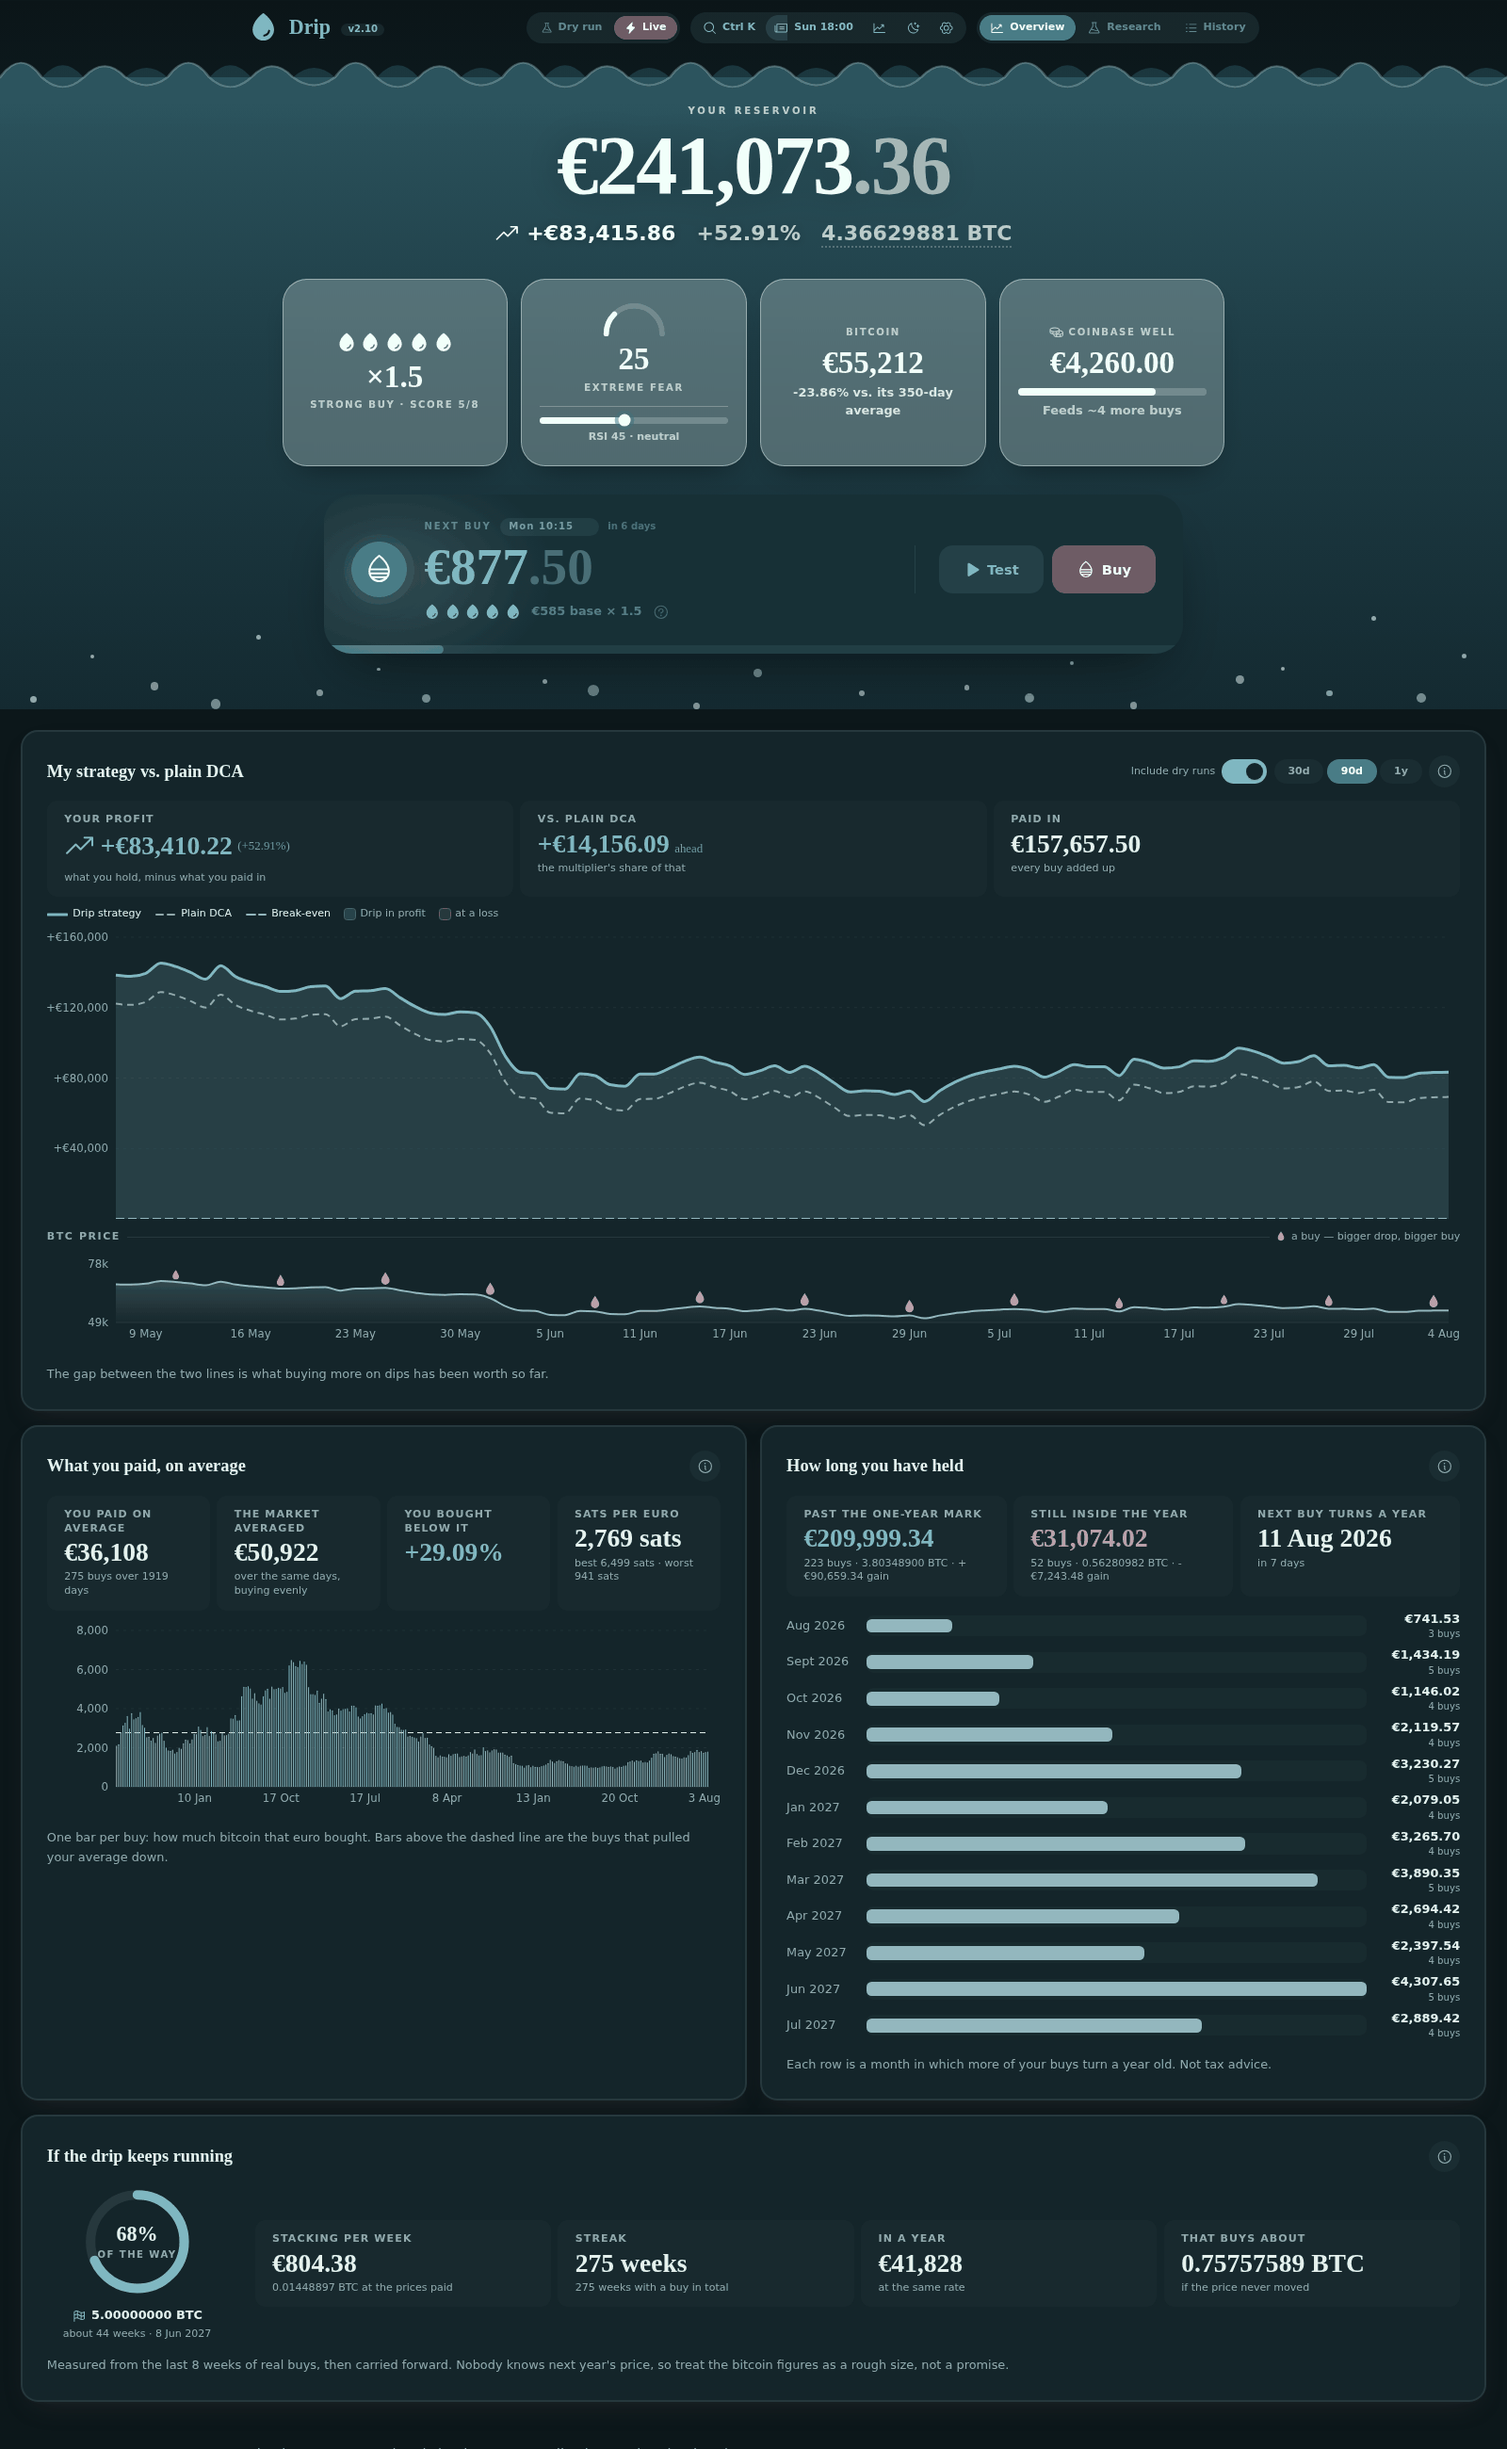
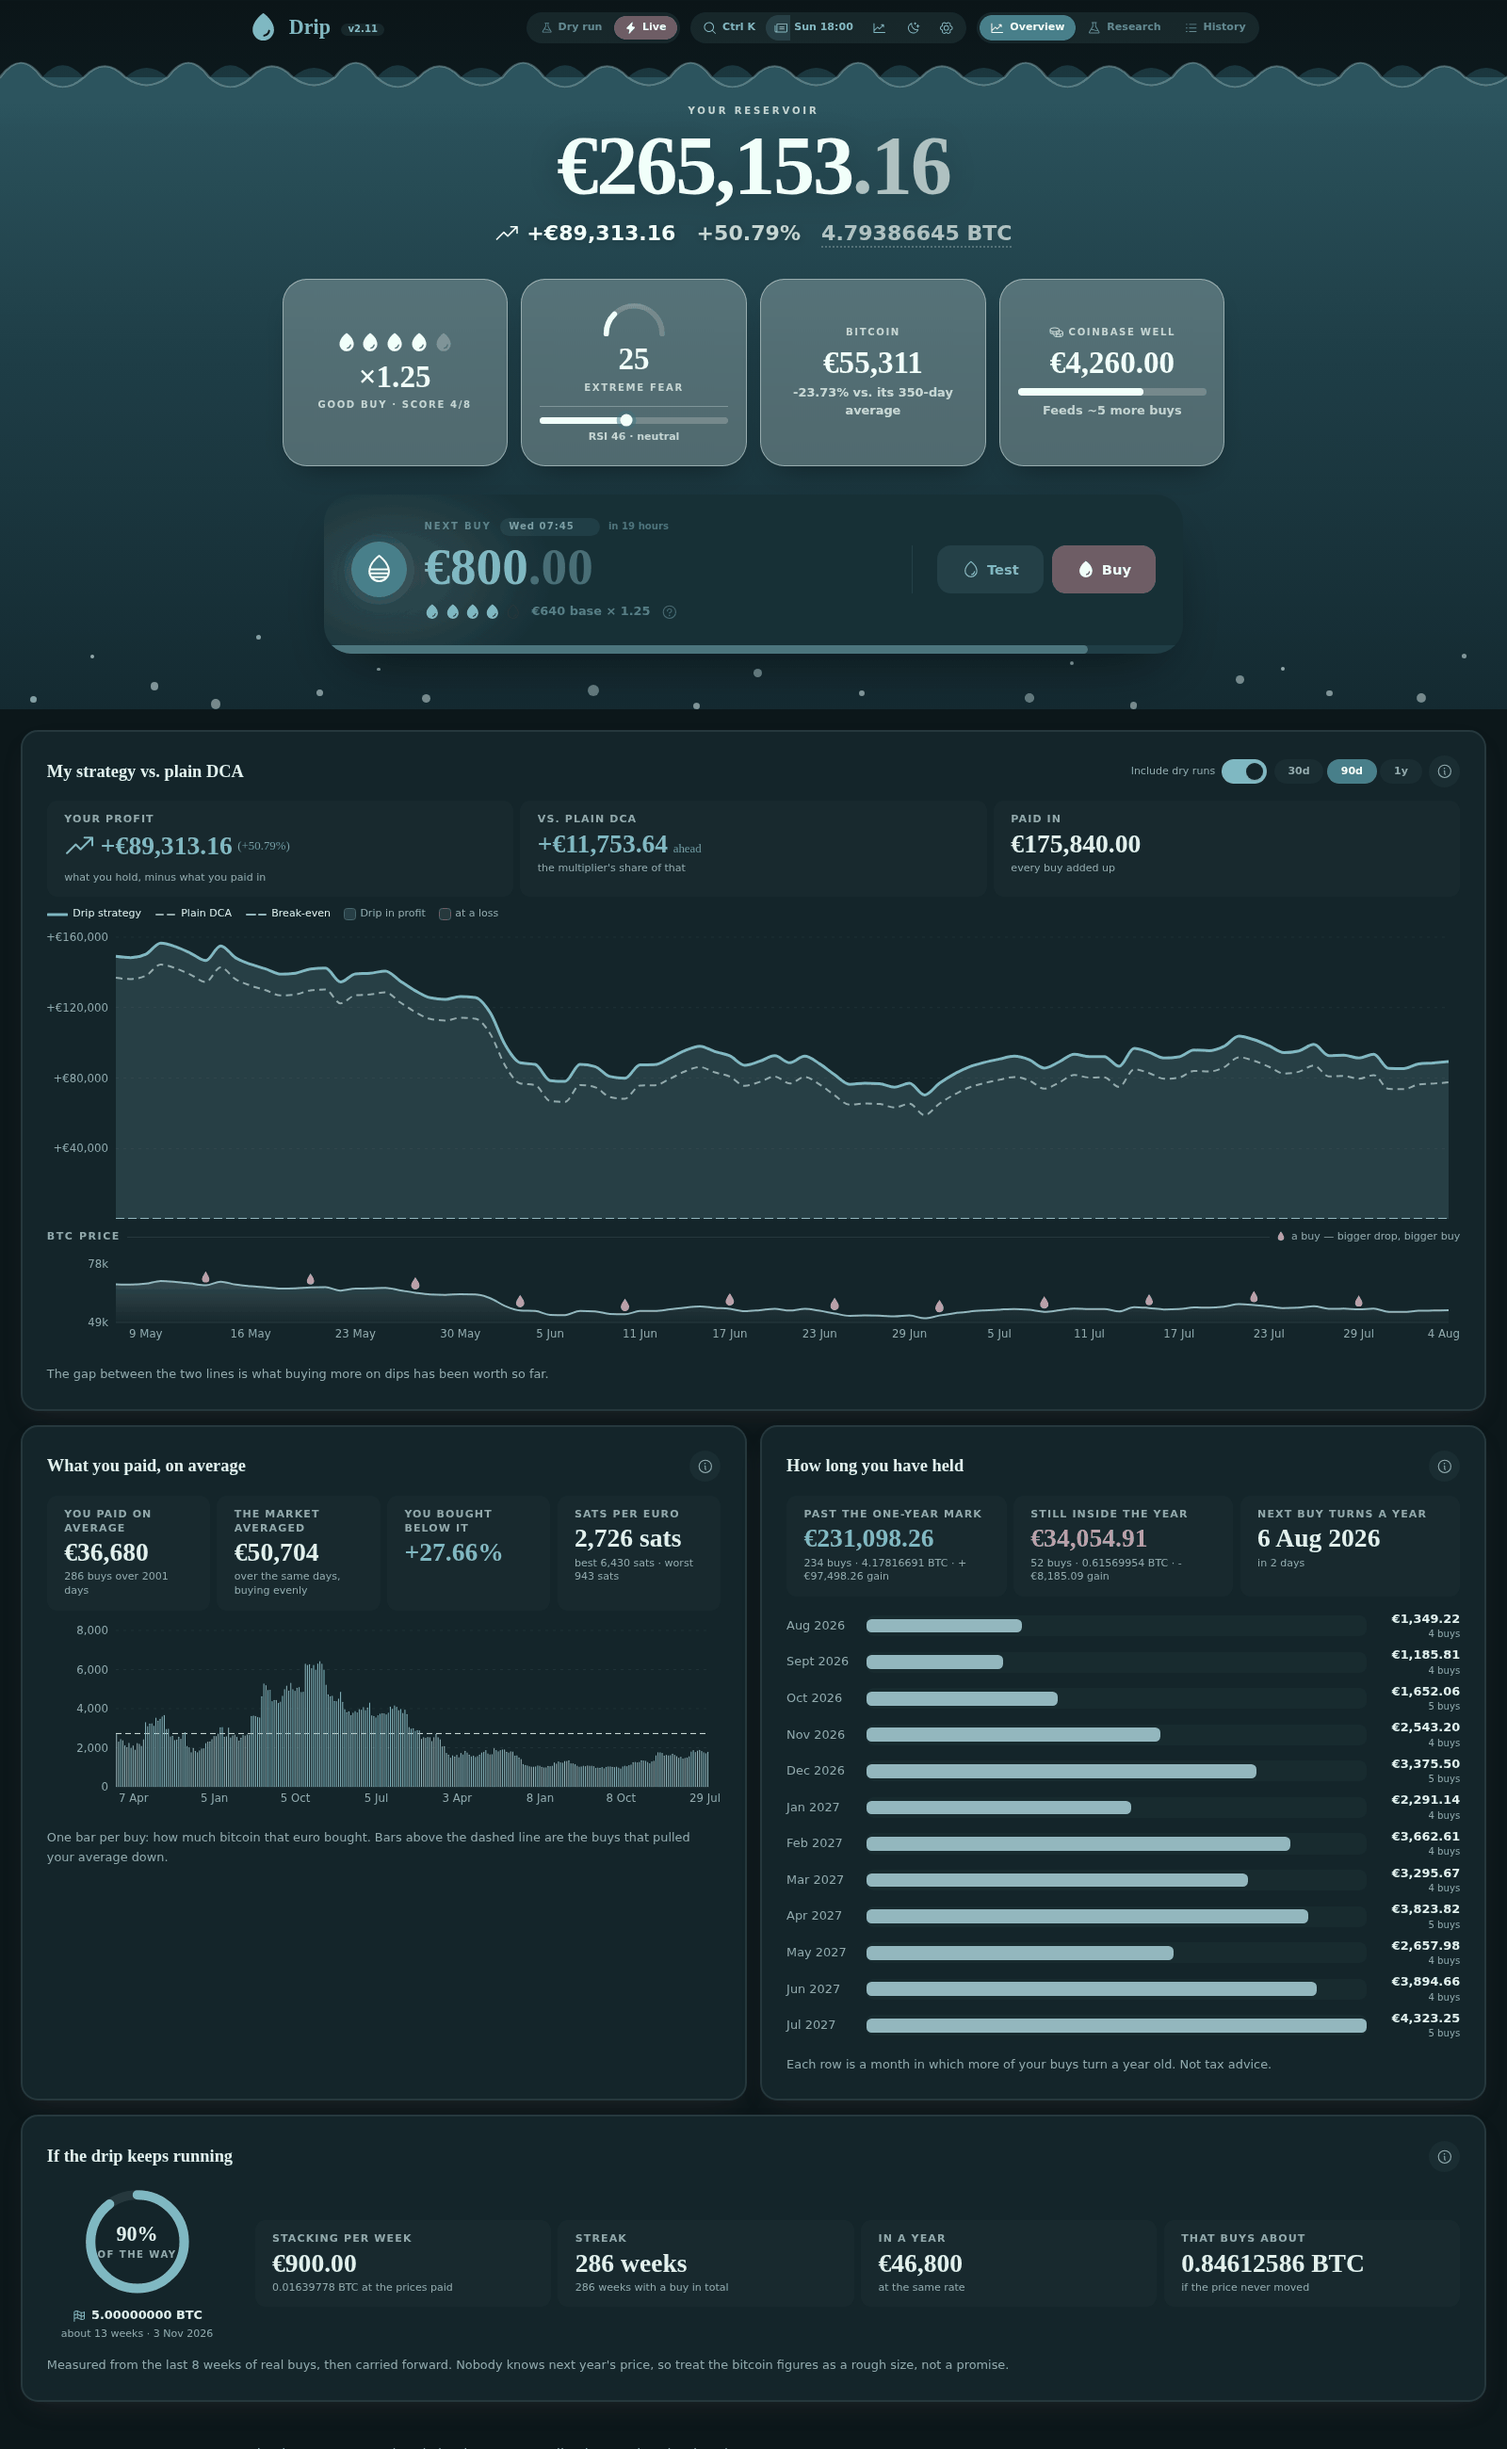
upd: test and buy wear drip's drop

diff --git a/frontend/src/components/header/NextBuyActions.tsx b/frontend/src/components/header/NextBuyActions.tsx
@@ -1,5 +1,7 @@
 import { useEffect, useRef, useState } from "react";
 import CheckIcon from "~icons/ph/check";
+import DropIcon from "~icons/ph/drop";
+import DropFillIcon from "~icons/ph/drop-fill";
 import DropHalfBottomIcon from "~icons/ph/drop-half-bottom";
 import PauseIcon from "~icons/ph/pause";
 import PencilIcon from "~icons/ph/pencil-simple";
@@ -471,7 +473,9 @@ export default function NextBuyActions({
           </div>
         </div>
 
-        {/* Right: everything that can move money */}
+        {/* Right: everything that can move money. Both wear the brand's drop —
+            the same mark as the header's — hollow for a run that spends nothing,
+            filled for one that does. */}
         <div className="flex flex-none items-center gap-2.5 max-md:justify-end md:ml-auto md:border-l md:border-teal/12 md:pl-7">
           <button
             onClick={onTestBuy}
@@ -479,7 +483,7 @@ export default function NextBuyActions({
             title="Run the strategy once without spending anything"
             className={`${ACTION} flex-1 bg-teal/12 text-teal hover:bg-teal/20 focus-visible:outline-teal md:flex-none`}
           >
-            <PlayIcon /> {running ? "Testing…" : "Test"}
+            <DropIcon className="text-lg" /> {running ? "Testing…" : "Test"}
           </button>
           <button
             onClick={onBuy}
@@ -491,7 +495,7 @@ export default function NextBuyActions({
                 : "bg-teal-deep text-cream hover:bg-teal-deep/90 focus-visible:outline-teal"
             }`}
           >
-            <DropHalfBottomIcon className="text-lg" />
+            <DropFillIcon className="text-lg" />
             {buying ? "Buying…" : "Buy"}
           </button>
         </div>

diff --git a/frontend/src/version.ts b/frontend/src/version.ts
@@ -17,6 +17,13 @@ export interface Release {
 
 export const CHANGELOG: Release[] = [
   {
+    version: "2.11",
+    date: "2026-08-04",
+    changes: [
+      "Test and Buy now wear Drip's own drop, the same mark as the one at the top left — hollow for a test run, filled for a buy that spends",
+    ],
+  },
+  {
     version: "2.10",
     date: "2026-08-04",
     changes: [

diff --git a/README.md b/README.md
@@ -16,6 +16,7 @@ Your stack is a tank of water, and it fizzes at the strength of the week's signa
 Underneath, the dashboard researches its own strategy, reports what you paid against
 the market, and carries the rate you stack at forward to the next round number of sats.
 Setting the drip happens on the next-buy card: click the amount, or the day and time.
+Beside them Test and Buy wear Drip's own drop - hollow for a run that spends nothing.
 Everything else lives in three groups in the bar at the top - mode, tools, sections -
 and `Ctrl+K` reaches all of it, keys included, so the Pi needs no shell after the first
 install. Once a week the whole thing arrives on Discord.
@@ -39,7 +40,7 @@ Discord webhook into **Setup** there. To update: `git pull && docker compose up 
 
 `http://<pi-address>:8080/#tank` is the whole thing on one screen, sized to read from
 across the room. Point a spare monitor at it and leave it - it refreshes itself and
-nothing on it can spend money. `Ctrl+K` gets there, Esc comes back.
+cannot spend money. `Ctrl+K` gets there, Esc comes back.
 
 The API has **no authentication** - keep it inside your home network and do not
 forward the port to the internet.
@@ -66,8 +67,8 @@ Drip reports itself to Discord: what you stacked, what the price did, how your s
 stands against plain DCA and against the market's own average, and what the signal
 says now.
 
-Twelve sections, each one switchable. The preview beside them is built by the same code
-that builds the real message, so it is exactly what will arrive.
+Twelve sections, each switchable. The preview is built by the code that builds the real
+message, so it is exactly what arrives.
 
 ![The weekly report editor](docs/screenshot-weekly-report.png)
 
